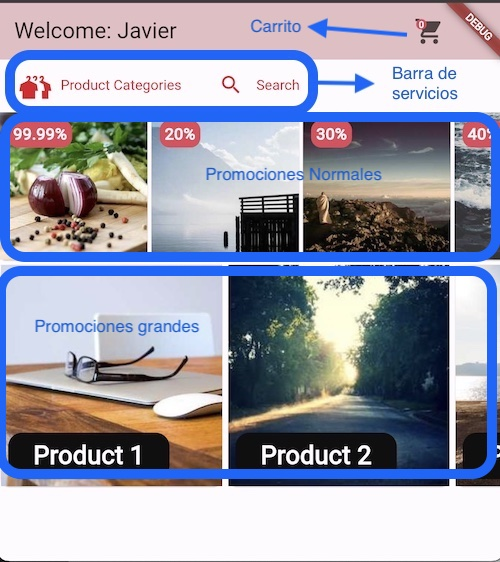
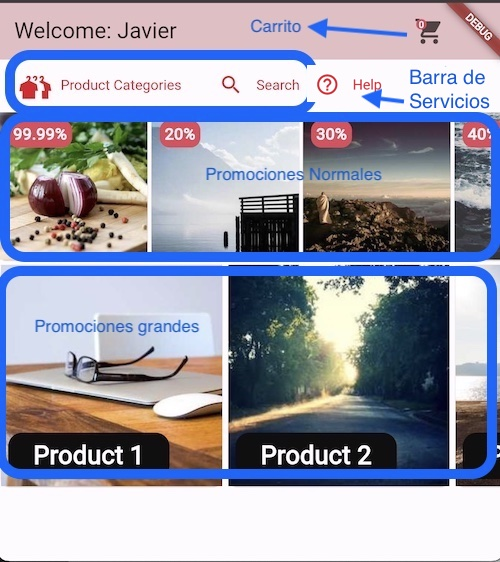
Documentación y helpScreen

Changed region(s): [[0.6, 0.0907, 0.99, 0.2117]]

diff --git a/storeapp/lib/ui/screen/help_data/help_data.dart b/storeapp/lib/ui/screen/help_data/help_data.dart
@@ -1,0 +1,26 @@
+
+abstract class HelpData {
+
+static const helpContent =
+"""
+Welcome to our online store! Here are a few tips to help you make the most of your shopping experience:
+
+- Browsing products: Use the search bar to quickly find the items you are looking for. You can also browse through different categories to discover new products.
+
+- Account registration: Creating an account allows you to save your preferred items, track your orders, and receive exclusive offers. Sign up now to enjoy these benefits!
+
+- Adding items to your cart: To purchase an item, simply click on the "Add to Cart" button. You can review the items in your cart and make any adjustments before proceeding to checkout.
+""";
+
+static const contactContent =
+"""
+Thank you for shopping with us! Our customer service team is here to assist you with any questions or concerns you may have. You can reach us via the following contact methods:
+
+Email: customerservice@onlinestore.com
+Phone: 1-800-123-4567 (Monday-Friday, 9am-5pm EST)
+Live Chat: Click on the chat icon in the bottom right corner of our website to chat with a representative during business hours.
+
+We value your feedback and strive to provide the best shopping experience for our customers. Please don't hesitate to reach out to us with any inquiries, feedback, or assistance you may need.
+""";
+
+}

diff --git a/storeapp/lib/ui/screen/help_screen.dart b/storeapp/lib/ui/screen/help_screen.dart
@@ -1,5 +1,8 @@
 import 'package:atomicdesign/ui/foundation/colors_foundation.dart';
+import 'package:atomicdesign/ui/page/help_page.dart';
 import 'package:flutter/material.dart';
+
+import 'help_data/help_data.dart';
 
 class HelpScreen extends StatelessWidget {
   const HelpScreen({super.key});
@@ -11,6 +14,14 @@ class HelpScreen extends StatelessWidget {
         title: const Text('Help and contact'),
         backgroundColor: ColorsFoundation.basicAppbarBackgroundColor,
       ),
-      body: const Text('Help Screen'), );
+      body: Container(
+        padding: const EdgeInsets.all(25.0),
+        child: const HelpPage(
+            helpTitle: 'Help',
+            helpMsg: HelpData.helpContent,
+            contactTitle: 'Contact Us',
+            contactMsg: HelpData.contactContent),
+      ),
+    );
   }
 }

diff --git a/storeapp/README.md b/storeapp/README.md
@@ -4,13 +4,14 @@ Proyecto de una aplicación tipo store de flutter.
 
 ## Diagrama y flujo descriptivo
 
-El App Está compuesto principalemente de 5 pantallas así:
+El App Está compuesto principalemente de 6 pantallas así:
 
 - HomeScreen
 - SearchScren
 - CategoriesScreen
 - DetailScreen
 - CartScreen
+- HelpScreen
 
 ![Diagrama](./documentation/appDiagram.png)
 
@@ -30,6 +31,7 @@ Desde la barra de Servicios: (La barra de servicios se podrá expandir con mas i
 
 - CategoryScreen
 - SearchScreen
+- HelpScreen
 
 Al cartScreen, directamente haciendo tap en el ícono del carrito.
 
@@ -73,3 +75,9 @@ Desde cualquier pantalla se puede acceder al CartScreen haciendo click sobre el 
 En el cartScreen se ven cuantos items están agregados al carrito y se podrá modificar las cantidades de los productos agregados al carrito.
 
 También se observa cuanto vale la suma de todos los productos.
+
+### HelpScreen
+
+![HelpScreen](./documentation/helpScreen.jpg)
+
+Esta pantalla solo tiene información para ayuda y contacto, la cual es parametrizable.
